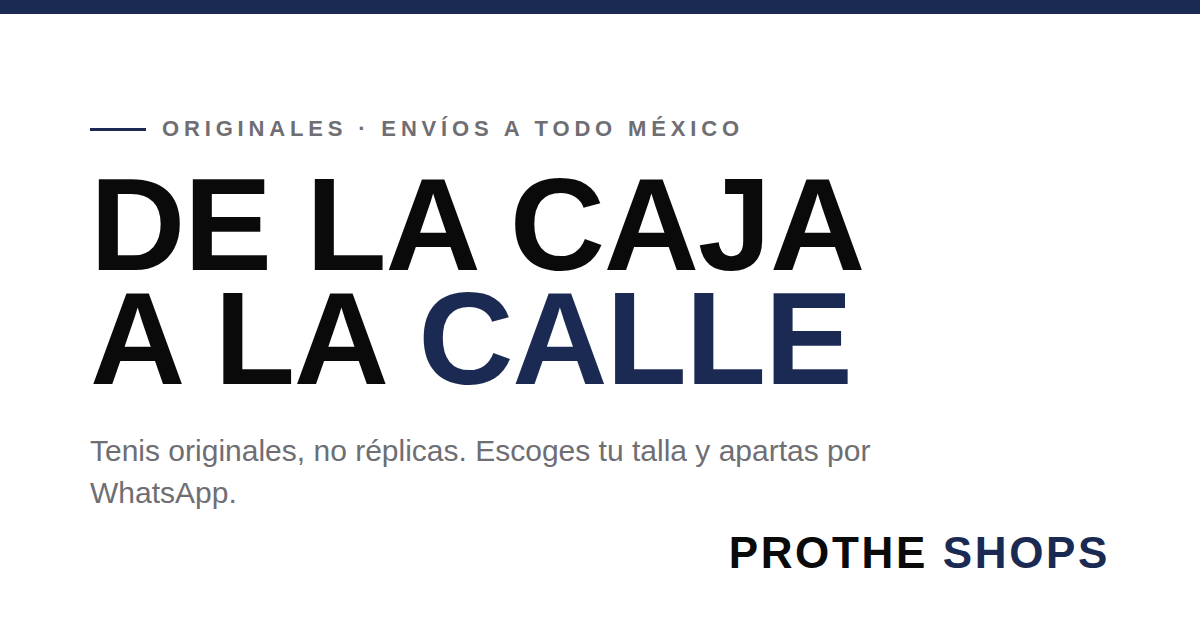
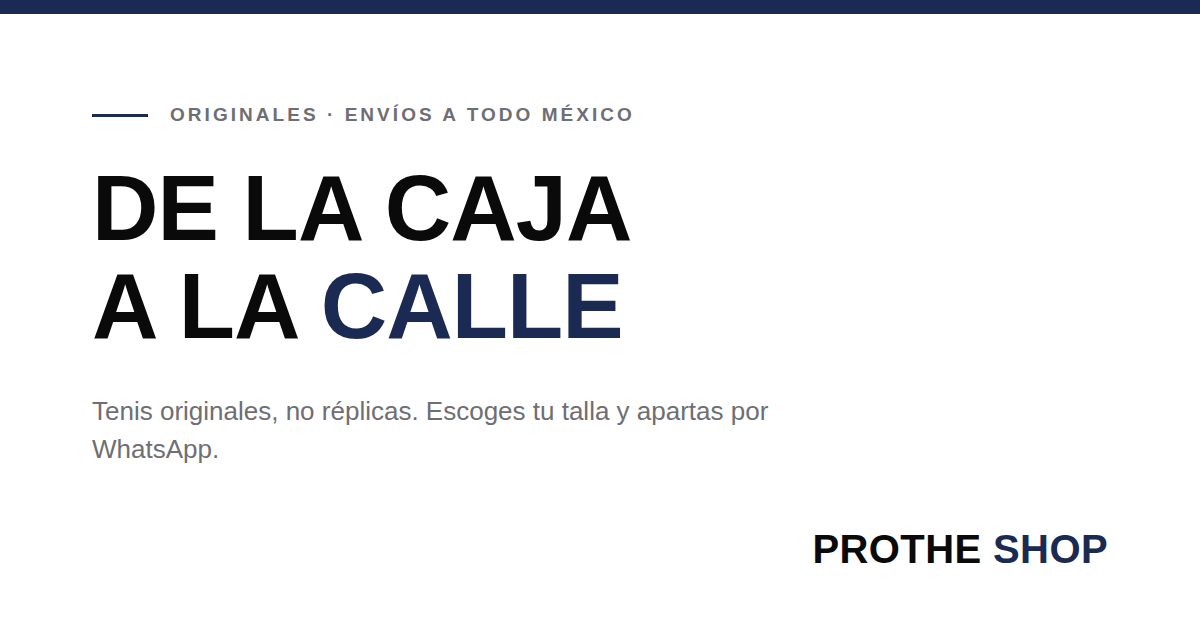
La tienda se llama Prothe Shop, sin la S
Cambia el nombre en los 12 lugares donde salia a la vista: logo de la barra,
titulo de la pestaña, pie de pagina, pantalla del panel, el mensaje de
WhatsApp del boletin, las etiquetas de vista previa al compartir y el README.

Tambien se rehizo compartir.png, que es la imagen que se ve cuando mandas el
link por WhatsApp o Instagram: traia el nombre dibujado adentro, asi que
cambiar el texto no bastaba.

Las llaves de almacenamiento del navegador (protheShopCart, protheAdmin) se
quedan como estaban a proposito: no las ve nadie, y cambiarlas le vaciaria el
carrito a quien lo tenga a medias.

Claude-Session: https://claude.ai/code/session_01JSHhnWT2FztYTTGsgSs8eL

Changed region(s): [[0.0617, 0.2714, 0.74, 0.8143], [0.0617, 0.1508, 0.6167, 0.2413], [0.5858, 0.8444, 0.925, 0.9048]]

diff --git a/index.html b/index.html
@@ -3,19 +3,19 @@
   <head>
     <meta charset="UTF-8" />
     <meta name="viewport" content="width=device-width, initial-scale=1.0, viewport-fit=cover" />
-    <title>PROTHE SHOPS — Tenis Originales</title>
+    <title>PROTHE SHOP — Tenis Originales</title>
     <meta name="description" content="Tenis originales, no réplicas. Escoge tu talla, apártalos por WhatsApp y te llegan a donde estés. Envíos a todo México." />
 
     <link rel="icon" type="image/svg+xml" href="/favicon.svg" />
     <link rel="apple-touch-icon" href="/icono-180.png" />
     <meta name="theme-color" content="#FFFFFF" />
     <meta name="color-scheme" content="light" />
-    <meta name="apple-mobile-web-app-title" content="Prothe Shops" />
+    <meta name="apple-mobile-web-app-title" content="Prothe Shop" />
 
     <!-- Vista previa al compartir el link por WhatsApp, Instagram o Facebook -->
     <meta property="og:type" content="website" />
-    <meta property="og:site_name" content="Prothe Shops" />
-    <meta property="og:title" content="PROTHE SHOPS — Tenis Originales" />
+    <meta property="og:site_name" content="Prothe Shop" />
+    <meta property="og:title" content="PROTHE SHOP — Tenis Originales" />
     <meta property="og:description" content="Tenis originales, no réplicas. Escoge tu talla y apártalos por WhatsApp. Envíos a todo México." />
     <meta property="og:image" content="https://tienda-daniel-pearl.vercel.app/compartir.png" />
     <meta property="og:image:width" content="1200" />
@@ -23,7 +23,7 @@
     <meta property="og:url" content="https://tienda-daniel-pearl.vercel.app/" />
     <meta property="og:locale" content="es_MX" />
     <meta name="twitter:card" content="summary_large_image" />
-    <meta name="twitter:title" content="PROTHE SHOPS — Tenis Originales" />
+    <meta name="twitter:title" content="PROTHE SHOP — Tenis Originales" />
     <meta name="twitter:description" content="Tenis originales, no réplicas. Escoge tu talla y apártalos por WhatsApp." />
     <meta name="twitter:image" content="https://tienda-daniel-pearl.vercel.app/compartir.png" />
   </head>

diff --git a/src/App.jsx b/src/App.jsx
@@ -83,7 +83,7 @@ function StoreFront() {
 
             <footer className="site-footer">
                 <div className="wrap">
-                    <div>© 2026 Prothe Shops</div>
+                    <div>© 2026 Prothe Shop</div>
                     <div className="flinks">
                         <a href={config.instagramLink} target="_blank" rel="noreferrer">Instagram</a>
                         <a href={config.tiktokLink} target="_blank" rel="noreferrer">TikTok</a>

diff --git a/src/index.css b/src/index.css
@@ -1,7 +1,7 @@
 @import url('https://fonts.googleapis.com/css2?family=Big+Shoulders+Display:wght@600;700;800;900&family=Barlow:ital,wght@0,300;0,400;0,500;0,600;0,700;1,400&display=swap');
 
 /* =========================================================
-   PROTHE SHOPS
+   PROTHE SHOP
    Fondo blanco, letras negras, azul marino para iconos y
    acentos. Rojo reservado para avisos (agotado).
    ========================================================= */

diff --git a/src/components/Navbar.jsx b/src/components/Navbar.jsx
@@ -9,7 +9,7 @@ const Navbar = ({ onOpenCart }) => {
     return (
         <header className="site-header">
             <nav className="nav wrap">
-                <a href="#top" className="logo">Prothe <em>Shops</em></a>
+                <a href="#top" className="logo">Prothe <em>Shop</em></a>
                 <div className="navlinks">
                     <a href="#coleccion">Catálogo</a>
                     <a href="#comoapartar">Cómo apartar</a>

diff --git a/src/components/Newsletter.jsx b/src/components/Newsletter.jsx
@@ -7,7 +7,7 @@ const Newsletter = () => {
     const inputRef = useRef(null);
 
     // El registro llega a tu WhatsApp para que tengas la lista de interesados.
-    const link = waLink(`Hola, quiero enterarme de lo que va llegando a Prothe Shops. Mi correo es: ${email}`);
+    const link = waLink(`Hola, quiero enterarme de lo que va llegando a Prothe Shop. Mi correo es: ${email}`);
 
     const handleClick = (e) => {
         if (!email.trim()) {

diff --git a/src/config.js b/src/config.js
@@ -1,5 +1,5 @@
 // =========================================================================
-// ARCHIVO DE CONFIGURACIÓN PRINCIPAL - PROTHE SHOPS
+// ARCHIVO DE CONFIGURACIÓN PRINCIPAL - PROTHE SHOP
 // =========================================================================
 // Aquí puedes modificar tus datos. Solo cambia el texto entre las comillas.
 // Guardar este archivo actualizará la página automáticamente.

diff --git a/src/components/AdminLogin.jsx b/src/components/AdminLogin.jsx
@@ -54,7 +54,7 @@ const AdminLogin = () => {
     return (
         <div className="login-page">
             <form className="login-card" onSubmit={entrar}>
-                <h2>Prothe <em>Shops</em></h2>
+                <h2>Prothe <em>Shop</em></h2>
                 <p>{primeraVez ? 'Crea tu clave' : 'Acceso empleados'}</p>
 
                 {primeraVez && (

diff --git a/README.md b/README.md
@@ -1,4 +1,4 @@
-# PROTHE SHOPS
+# PROTHE SHOP
 
 Tienda de tenis (sneakers) hecha con React + Vite, con catálogo en base de datos
 y pedidos por WhatsApp. El dueño administra la tienda desde el celular, sin tocar código.
